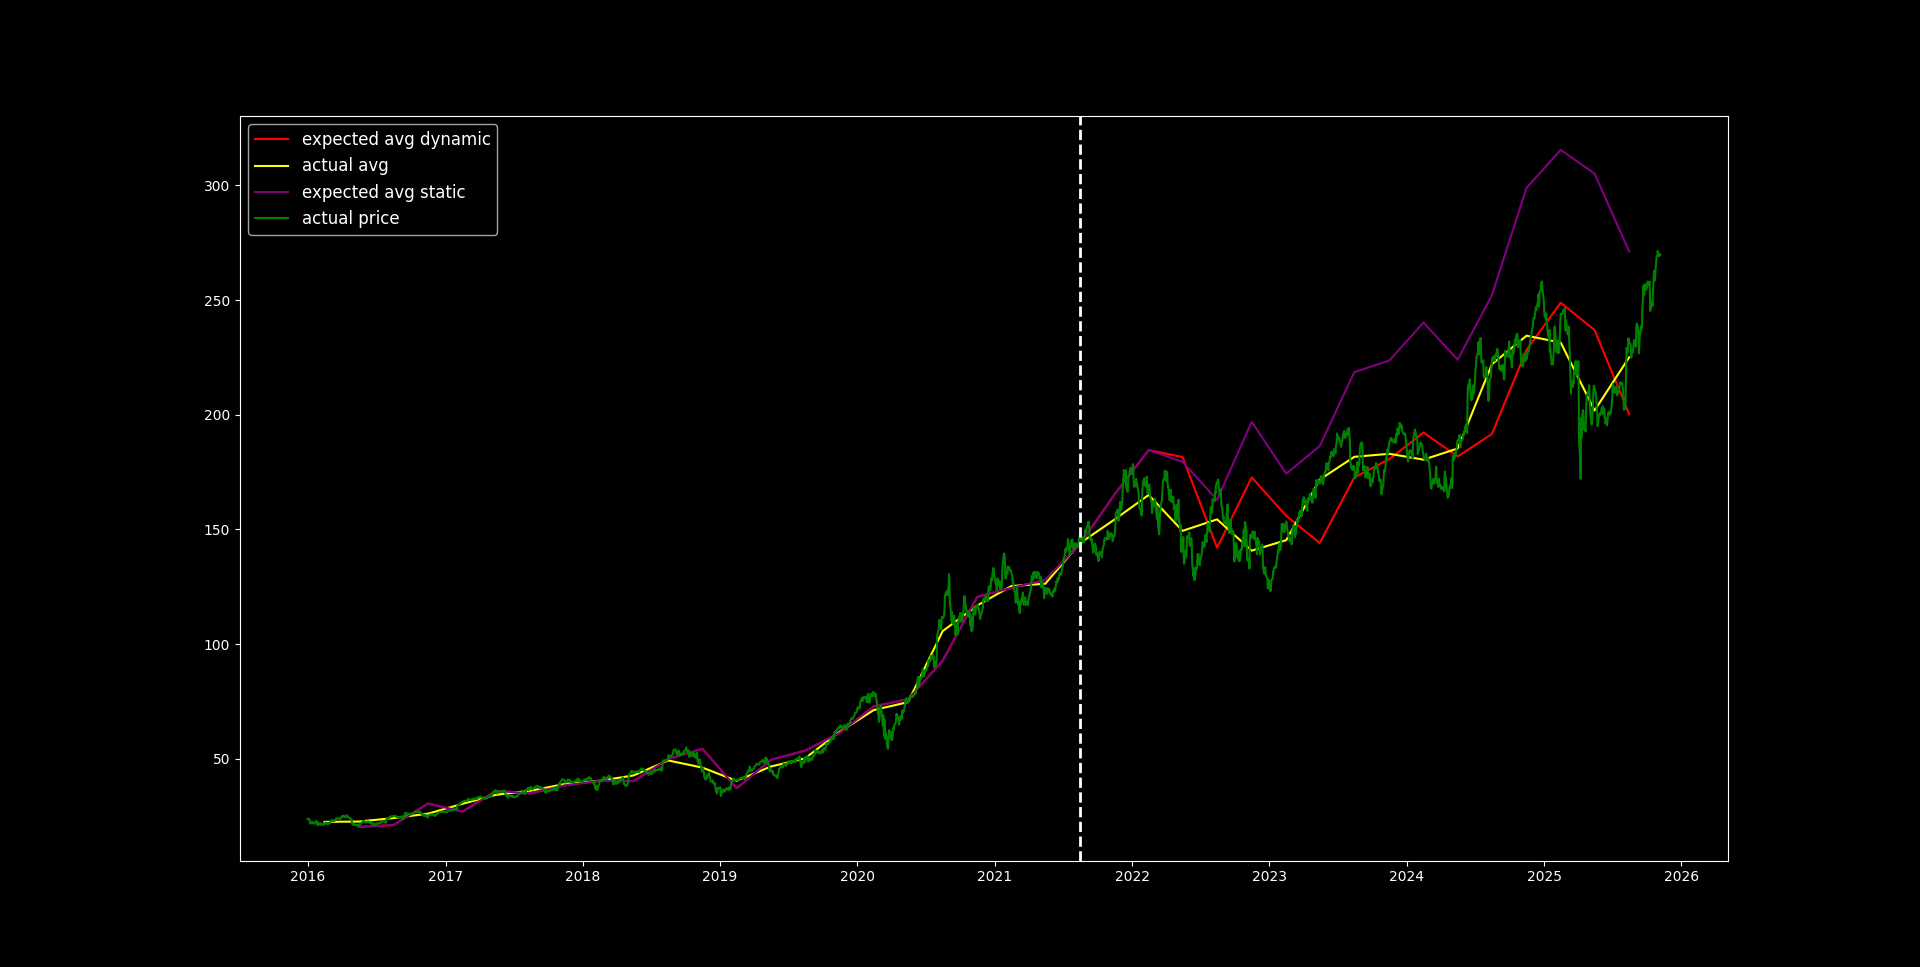
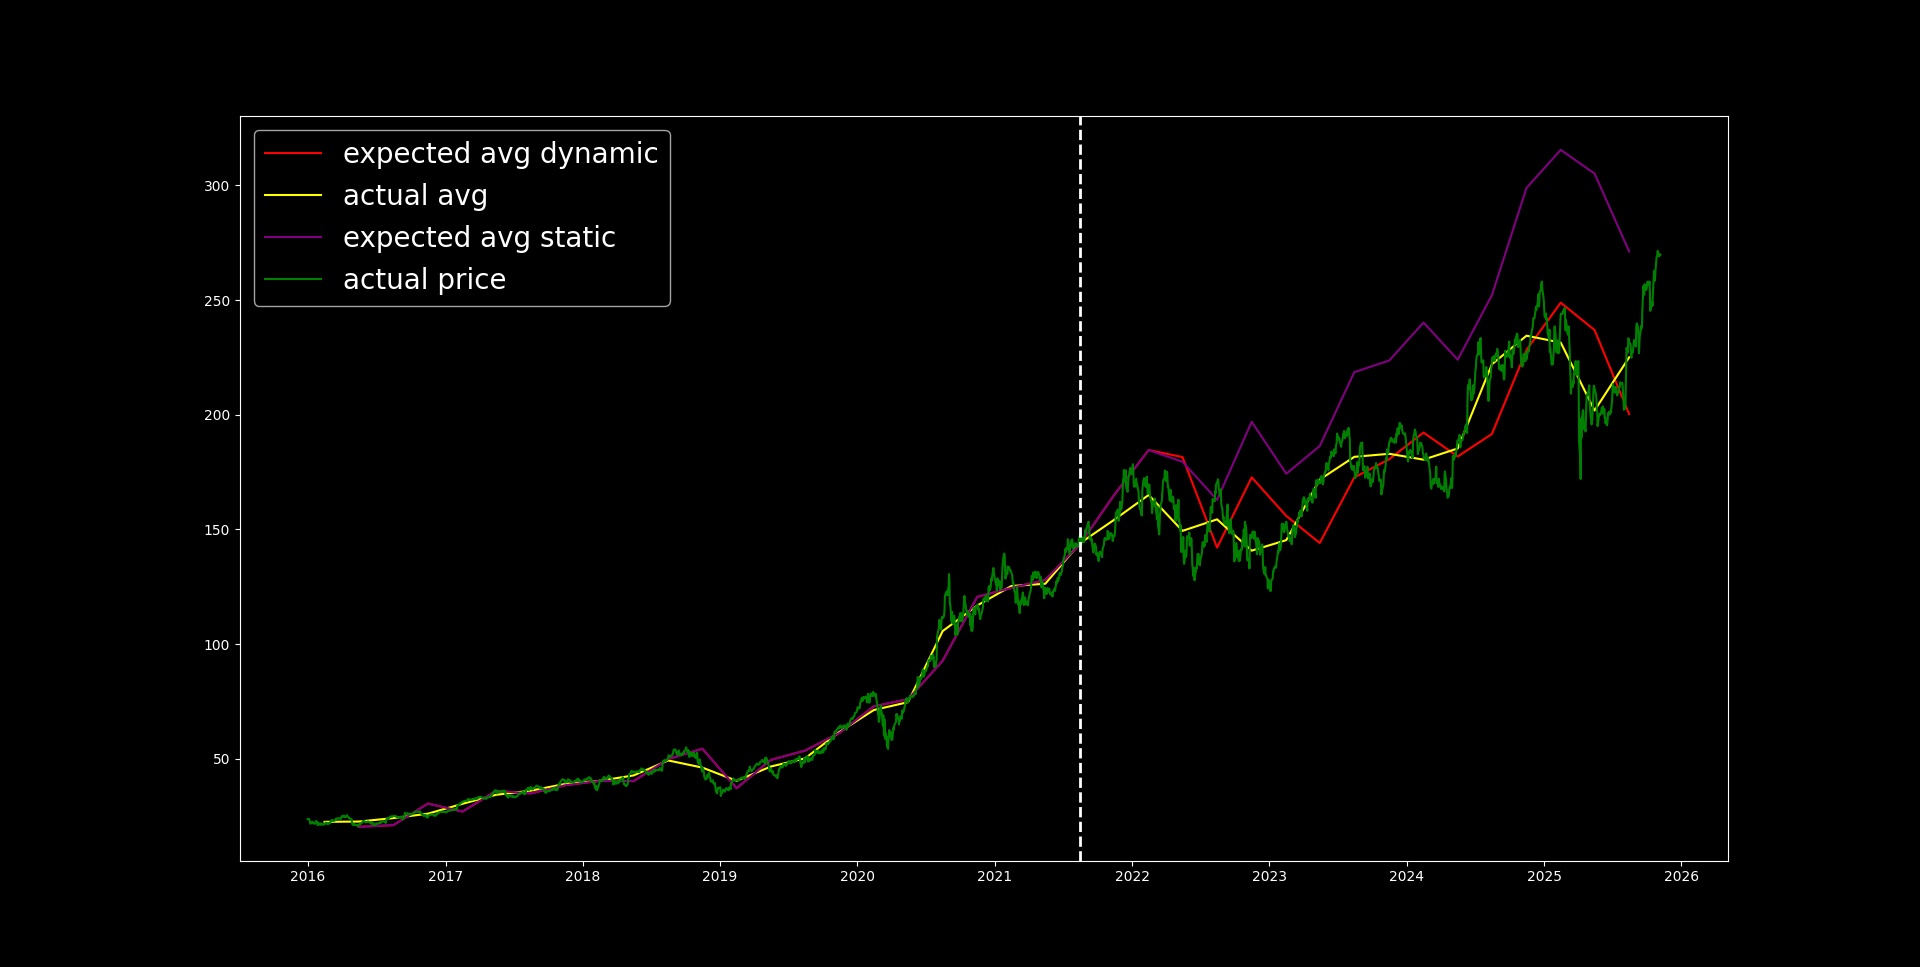
image 2

Changed region(s): [[0.125, 0.1241, 0.3438, 0.3102]]

diff --git a/plot.py b/plot.py
@@ -4,7 +4,7 @@ import matplotlib.pyplot as plt
 from yahoo.timeframes import *
 
 
-def plot(startk: int, off: int, ticker: str):
+def plot(startk: int, off: int, ticker: str, legend_fontsize=None):
     tk = MyTicker(ticker)
 
     expected_prices = tk.get_results(startk, 38, off)
@@ -50,5 +50,5 @@ def plot(startk: int, off: int, ticker: str):
         linewidth=2,
     )
 
-    plt.legend(fontsize=12)
+    plt.legend(fontsize=legend_fontsize)
     plt.show()

diff --git a/examples/plot_prices.py b/examples/plot_prices.py
@@ -5,4 +5,4 @@ from plot import plot
 plt.style.use("dark_background")
 
 if __name__ == "__main__":
-    plot(0, 22, tickers.AAPL)
+    plot(0, 22, tickers.AAPL, legend_fontsize=20)
